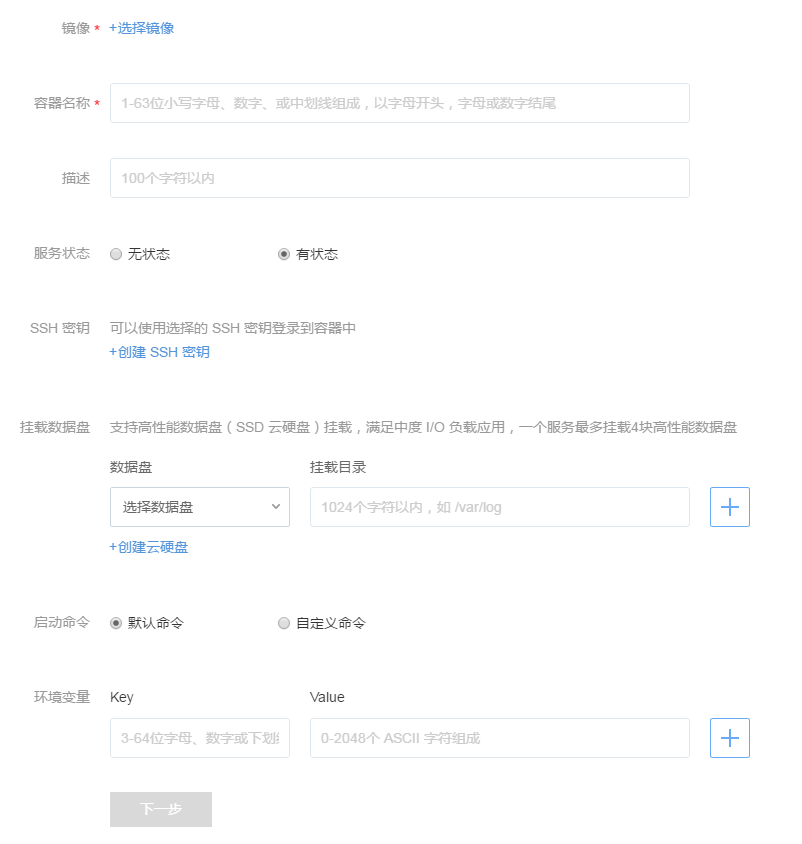
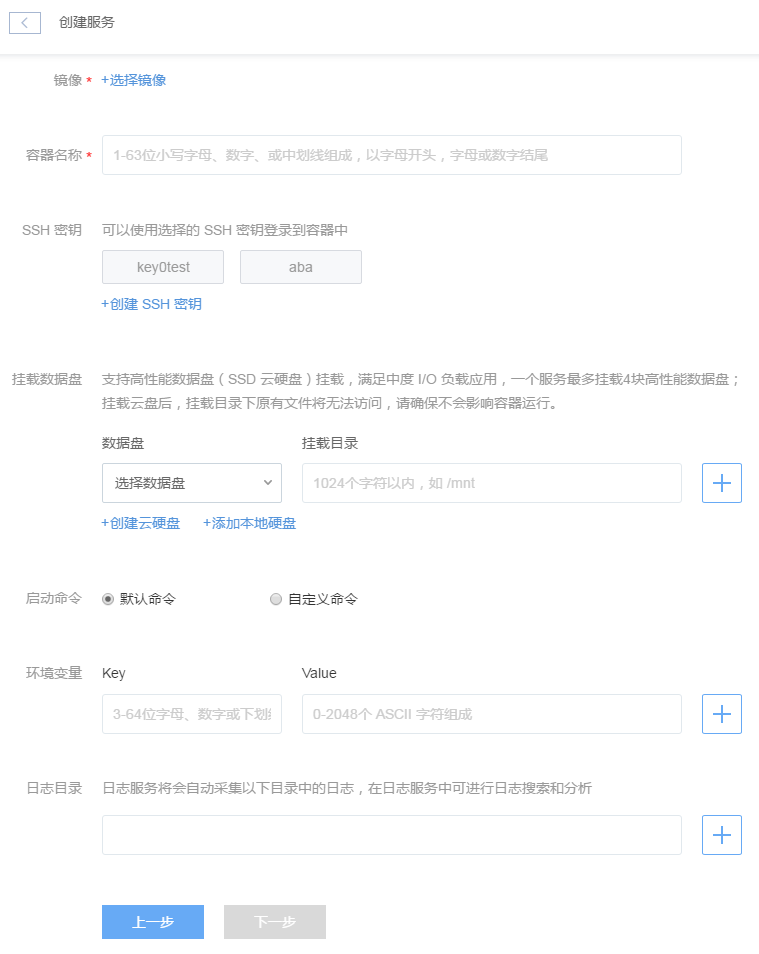
Enhanment:服务管理：本地硬盘

diff --git a/容器服务/服务管理/使用指南/创建有状态服务.md b/容器服务/服务管理/使用指南/创建有状态服务.md
@@ -52,8 +52,10 @@
 
 更详细的 SSH 密钥操作指南请参见 如何使用 SSH 密钥登录。
 
-#### 云硬盘
-点击选择数据盘下拉框,选择需要挂载的数据盘,在挂载目录中填写需要挂载到的路径。云硬盘不支持同时挂载到多个服务中。未创建云硬盘可以在当前界面创建云硬盘，详见 创建云硬盘。
+#### 挂在数据盘
+支持云硬盘和本地硬盘。
+
+点击选择数据盘下拉框，选择需要挂载的数据盘，在挂载目录中填写需要挂载到的路径。云硬盘不支持同时挂载到多个服务中。未创建云硬盘可以在当前界面创建云硬盘。
 
 #### 启动命令（高级设置内）
 填写服务的启动命令即 dockerfile 内的 CMD 命令，默认执行服务内的启动命令，如遇容器无法启动（如创建服务时提示私有网IP绑定失败），可以选择自定义命令。常用自定义命令参考 Dockerfile 指令。
